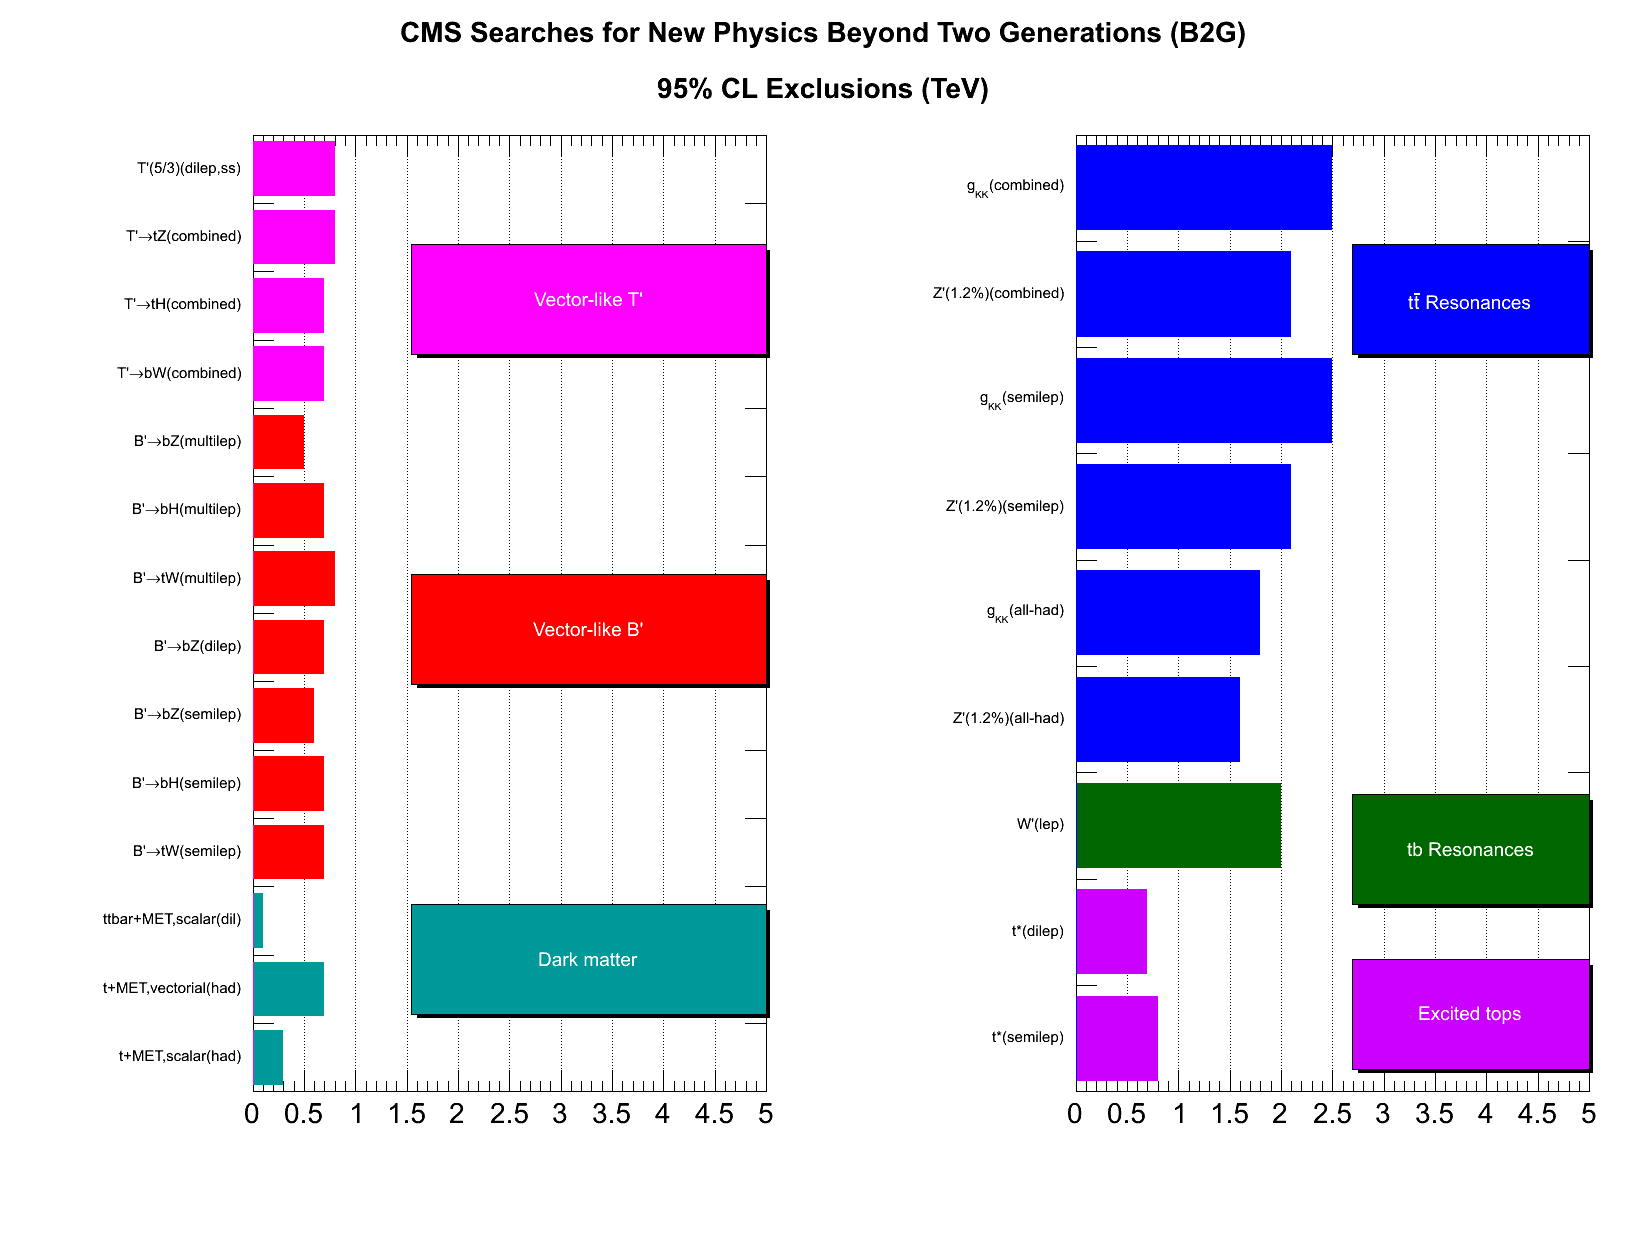
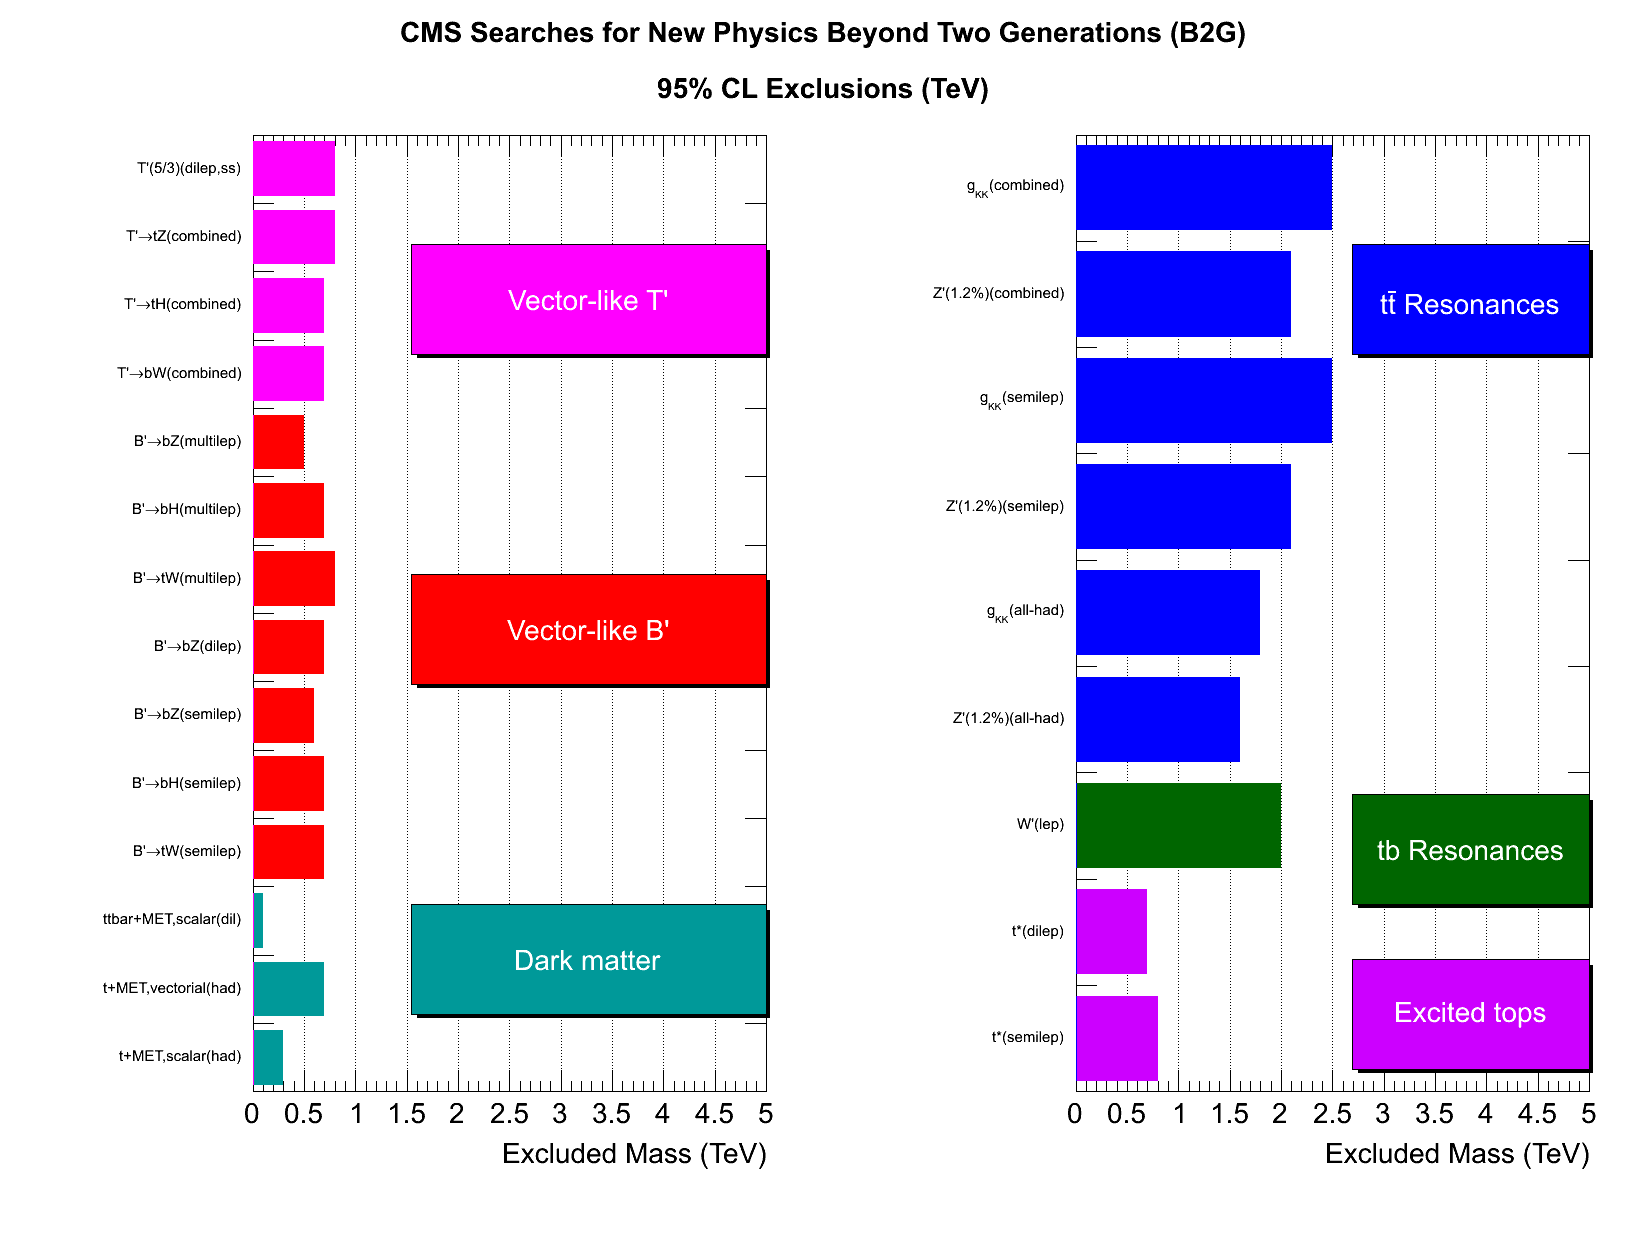
Changing font size

diff --git a/fullmacro.py b/fullmacro.py
@@ -176,6 +176,7 @@ for ihist in range(len(histstodraw)) :
     gPad.SetLeftMargin(0.3)
     gPad.SetRightMargin(0.05)
     gPad.SetGridx()
+    hist.GetYaxis().SetTitle( 'Excluded Mass (TeV)')
     #hist.GetXaxis().SetNdivisions(0)
     #hist.GetYaxis().SetNdivisions(options.maxval + 2)
     hist.Draw('axis hbar')
@@ -204,7 +205,7 @@ for key in [ "DM", "B'", "T'", "t*", "W'", "Z'"] :
     p.SetFillColor( style[0] )
     p.SetTextColor(0)
     p.SetTextFont(43)
-    p.SetTextSize(20)
+    p.SetTextSize(30)
     p.Draw()
     paves.append(p)
 
